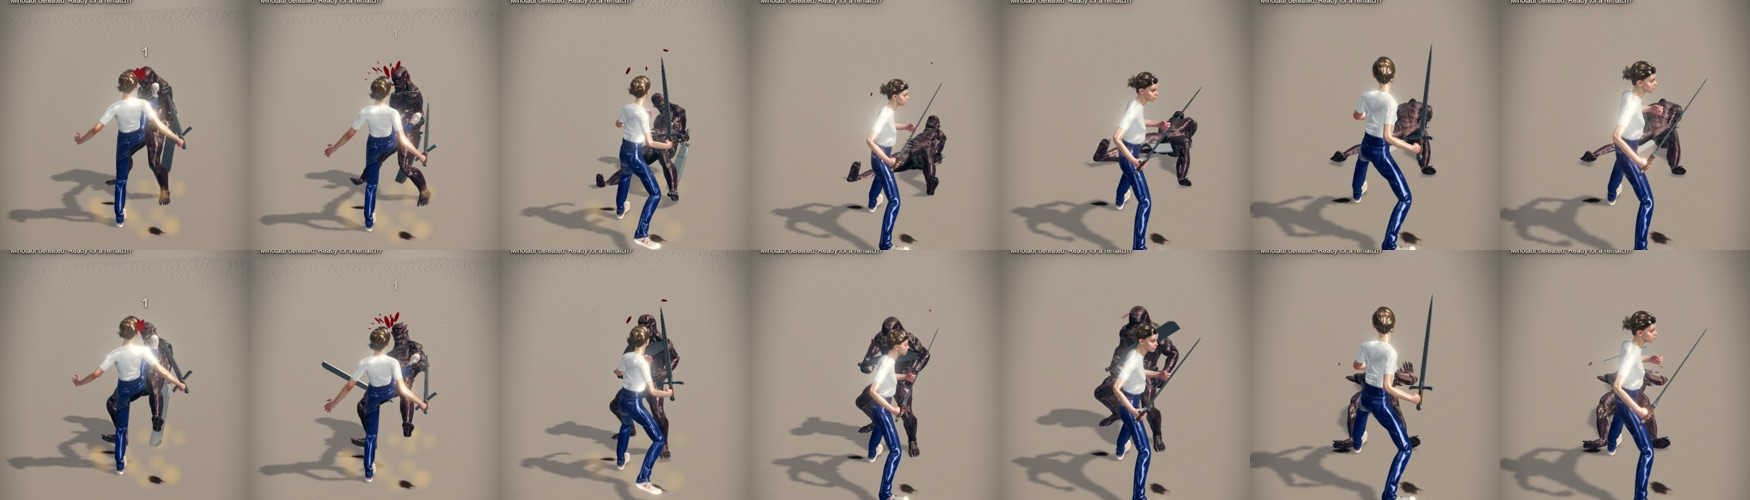
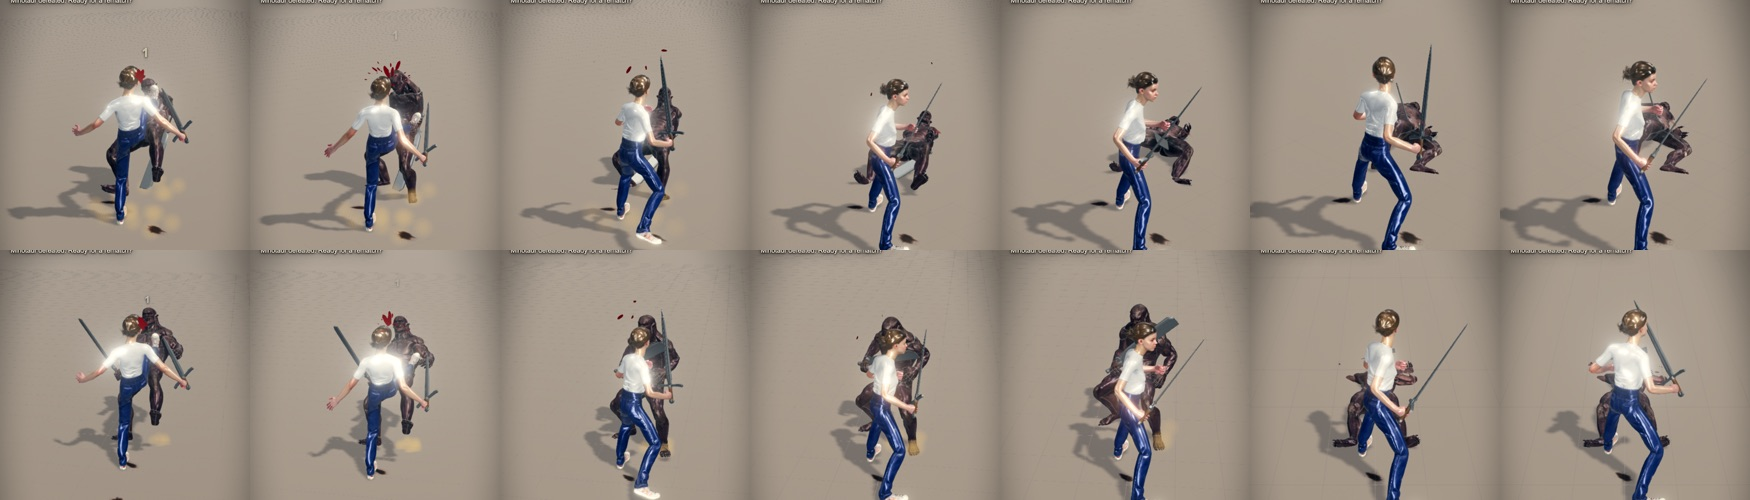
fx: ragdoll on physics a382384 (left-elbow hinge sign fixed, 106 rows) with solveHinges on
@frankendom/physics pinned to a382384 (physics#16: the left elbow's hinge limits
had the wrong sign; it carries 6ab3c99's 106 measure rows). solveHinges true:
on the 106 Minotaur's real clips the forearm / hand direction error is 17.3 / 21.7
deg live median (10.1 / 11.0 settled) against 41.9 / 41.8 with it off; the upper
arm's direction is unchanged (16.0 vs 16.1) and its extra full-angle error is roll.

The trace's long axis is now local +Y on both rigs (#56/#58 used local X, which on
these rigs runs across the bone, so those 'long axis' columns counted roll).

hit.blend stays spine-only: the arm share is a follow-up (the stills harness does
not pair the default and ?physics=v1 runs tick for tick, so an arm share cannot be
judged from them yet). 375 stills of the 106 death and a hit, refreshed.

diff --git a/src/fight/ragdoll.ts b/src/fight/ragdoll.ts
@@ -182,8 +182,9 @@ export function createFoeRagdoll(rows: PhysicsRows, foe: OpponentRow, load: () =
         if (tune?.settle) { rig.drive(); for (let i = 0; i < tune.settle; i++) { physics.step(tick); rig.drive(); } }
         const anim = Object.entries(partBones).map(([p, b]) => [p, b.getWorldQuaternion(new THREE.Quaternion()), b.quaternion.clone(), b.position.clone()] as const);
         rig.applyPose();
-        // per part: the whole orientation's angle, and (`<part>~`) the angle between the bone's long axes (the rig's bones run along local X): what is left is twist
-        const axis = (q: THREE.Quaternion) => new THREE.Vector3(1, 0, 0).applyQuaternion(q);
+        // per part: the whole orientation's angle, and (`<part>~`) the angle between the bone's long axes: what is left is twist. Both rigs' bones run
+        // along local Y (minotaur.glb's lowerarm_l -> hand_l and minotaur-106.glb's LeftForeArm -> LeftHand are +Y offsets).
+        const axis = (q: THREE.Quaternion) => new THREE.Vector3(0, 1, 0).applyQuaternion(q);
         trace.push({ ...Object.fromEntries(anim.flatMap(([p, q]) => { const r = partBones[p]!.getWorldQuaternion(new THREE.Quaternion()); return [[p, +q.angleTo(r).toFixed(3)], [`${p}~`, +axis(q).angleTo(axis(r)).toFixed(3)]]; })), _stagger: stagger >= 0 ? staggerDepth(rows.states.stagger, stagger) : -1 });
         for (const [p, , lq, lp] of anim) { partBones[p]!.quaternion.copy(lq); partBones[p]!.position.copy(lp); }
         group.updateWorldMatrix(true, true);
